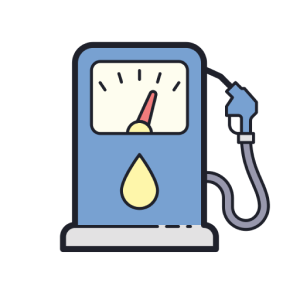
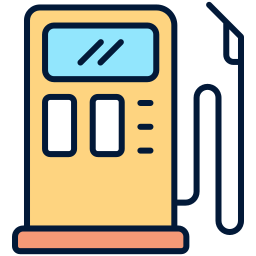
add: change the images of the places catgories

diff --git a/App/Components/Home/CategoryList.js b/App/Components/Home/CategoryList.js
@@ -3,48 +3,81 @@ import React from 'react'
 import { FlatList } from 'react-native'
 import CategoryItem from './CategoryItem'
 
-export default function CategoryList({setSelectedCategory}) {
-  const categoryList=[
+export default function CategoryList({ setSelectedCategory }) {
+  const categoryList = [
     {
-        id:1,
-        name:'Gas Station',
-        value:'gas_station',
-        icon:require('./../../../assets/gas.png')
+      id: 1,
+      name: 'Gas Station',
+      value: 'gas_station',
+      icon: require('./../../../assets/gas.png')
     },
     {
-        id:2,
-        name:'Restaurants',
-        value:'restaurant',
-        icon:require('./../../../assets/food.png')
+      id: 2,
+      name: 'Restaurants',
+      value: 'restaurant',
+      icon: require('./../../../assets/food.png')
     },
     {
-        id:3,
-        name:'Cafe',
-        value:'cafe',
-        icon:require('./../../../assets/cafe.png')
+      id: 3,
+      name: 'Cafe',
+      value: 'cafe',
+      icon: require('./../../../assets/cafe.png')
     },
-]
+    {
+      id: 4,
+      name: 'School',
+      value: 'school',
+      icon: require('./../../../assets/school.png')
+    },
+    {
+      id: 5,
+      name: 'Hospital',
+      value: 'hospital',
+      icon: require('./../../../assets/hospital.png')
+    },
+    {
+      id: 6,
+      name: 'Store',
+      value: 'store',
+      icon: require('./../../../assets/store.png')
+    },
+    {
+      id: 7,
+      name: 'Park',
+      value: 'park',
+      icon: require('./../../../assets/park.png')
+    },
+    {
+      id: 7,
+      name: 'Gym',
+      value: 'gym',
+      icon: require('./../../../assets/gym.png')
+    },
+
+  ]
   return (
-    <View style={{marginTop:15}}>
+    <View style={{ marginTop: 15 }}>
       <Text style={{
-        fontSize:20,
-        fontFamily:'raleway-bold',
-        
+        fontSize: 20,
+        fontWeight: 'bold',
+        fontFamily: 'raleway-bold',
+        marginTop: 10
+
       }} >Select Top Category</Text>
 
       <FlatList
         data={categoryList}
         horizontal={true}
         showsHorizontalScrollIndicator={false}
-        style={{marginTop:5}}
-        renderItem={({item})=>(
-          <TouchableOpacity 
-          onPress={()=>setSelectedCategory(item.value)} >
+        style={{ marginTop: 5 }}
+        renderItem={({ item }) => (
+          <TouchableOpacity
+            onPress={() => setSelectedCategory(item.value)} >
             <CategoryItem category={item} />
           </TouchableOpacity>
         )}
       />
-      
+
     </View>
   )
 }

diff --git a/App/Screens/Home.js b/App/Screens/Home.js
@@ -18,7 +18,7 @@ export default function Home() {
 
   useEffect(() => {
     if (location) {
-      GetNearBySearchPlace('restaurant');
+      GetNearBySearchPlace('restaurant, food, cafe, gas, school, gym, park, store, hospital, pharmacy, atm, bank, bar, bus_station, church, city_hall, courthouse, dentist, doctor, fire_station, library, museum, police, post_office, shopping_mall, spa, stadium, university, zoo');
     }
   }, [location]);
 

diff --git a/App/Components/Home/GoogleMapView.js b/App/Components/Home/GoogleMapView.js
@@ -26,7 +26,7 @@ export default function GoogleMapView({placeList}) {
   return (
     <View style={{ marginTop: 20 }}>
       <Text style={{ fontSize: 20, 
-        marginBottom: 10, fontWeight: "600",fontFamily:'raleway-bold' }}>
+        marginBottom: 10, fontWeight: "bold",fontFamily:'raleway-bold' }}>
         Top Near By Places
       </Text>
       <View style={{ borderRadius: 20, overflow: "hidden" }}>

diff --git a/App/Components/Search/BusinessItem.js b/App/Components/Search/BusinessItem.js
@@ -31,7 +31,7 @@ export default function BusinessItem({ place }) {
           }}
           style={{ width: 120, height: 80, borderRadius: 10 }}
         /> :
-          <Image source={require('./../../../assets/placeholder.jpg')}
+          <Image source={require('./../../../assets/placeholder.png')}
             style={{ width: 130, height: 100, borderRadius: 9 }}
           />}
       <Text

diff --git a/App/Components/Home/PlaceItem.js b/App/Components/Home/PlaceItem.js
@@ -24,7 +24,7 @@ export default function PlaceItem({ place }) {
         }}
         style={{ width: 110, height: 110, borderRadius: 15 }}
       />:
-      <Image source={require('./../../../assets/placeholder.jpg')}
+      <Image source={require('./../../../assets/placeholder.png')}
       style={{ width: 110, height: 110, borderRadius: 15 }}
       />}
       <View style={{flex:1}}>

diff --git a/App/Components/Home/PlaceList.js b/App/Components/Home/PlaceList.js
@@ -14,7 +14,7 @@ export default function PlaceList({placeList}) {
   return (
     <View>
       <Text
-      style={{fontSize:20,fontFamily:'raleway-bold',marginTop:10}}
+      style={{fontSize:20,fontFamily:'raleway-bold',marginTop:20, fontWeight:'bold'}}
       >Found {placeList.length} Places</Text>
 
       <FlatList

diff --git a/App/database/Place.js b/App/database/Place.js
@@ -77,7 +77,7 @@ const savePlace = (place, userUuid, callback) => {
       [
         userUuid,
         JSON.stringify(place.business_status),
-        place.formatted_address,
+        place?.formatted_address || '',
         JSON.stringify(place.geometry),
         place.icon,
         place.icon_background_color,

diff --git a/App/Components/PlaceDetail/PlaceDetailItem.js b/App/Components/PlaceDetail/PlaceDetailItem.js
@@ -26,7 +26,6 @@ export default function PlaceDetailItem({ place, onDirectionClick }) {
 
   const handleSavePlace = () => {
     if (user) {
-      console.log(place)
       savePlace(place, user.uid, (insertId) => {
         if (insertId !== null) {
           // Place saved successfully
